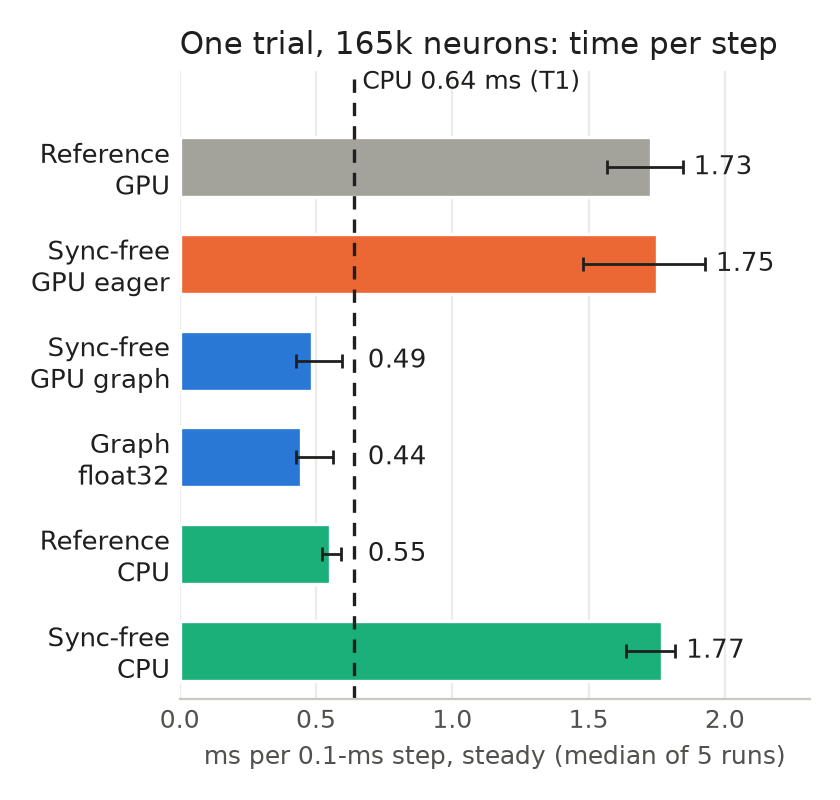
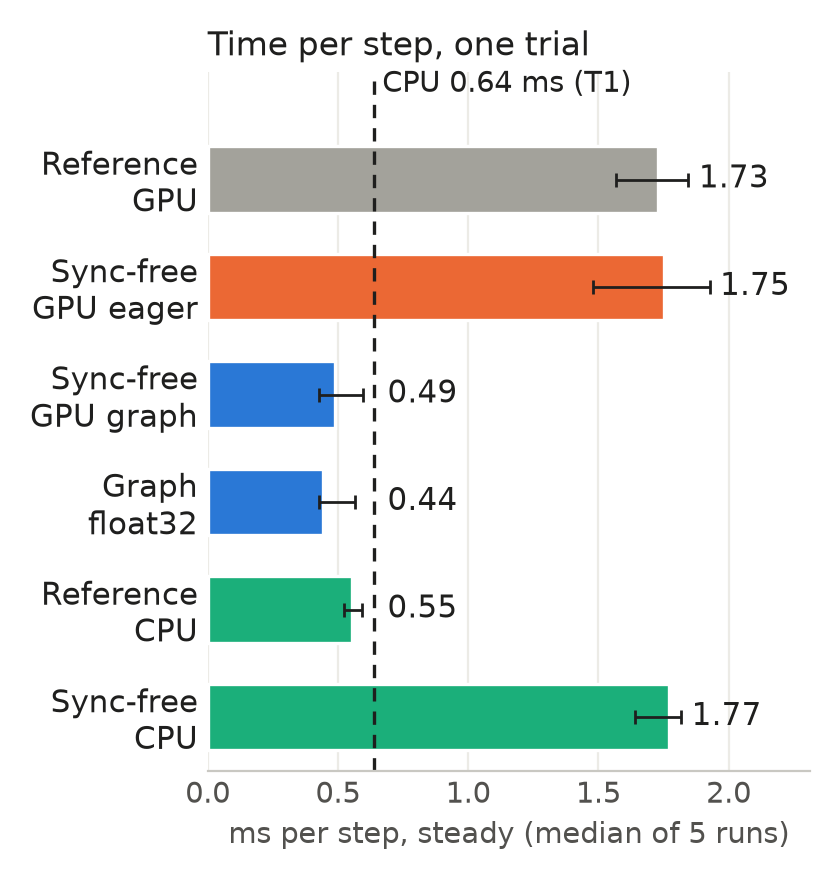
T5b chart: larger text for a 390 px screen

Changed region(s): [[0.031, 0.0312, 0.9595, 0.9688], [0.0929, 0.5312, 0.2786, 0.625], [0.031, 0.6562, 0.2786, 0.75]]

diff --git a/bench/w4_graph_plot.py b/bench/w4_graph_plot.py
@@ -2,8 +2,8 @@
 """Bar chart of ms per step by row (reference / fast eager / fast graph, GPU and
 CPU) from a w4_graph.py JSON, plus the HTML table that the site embeds verbatim.
 
-Sized for a 390 px phone: 4.2 in wide at 200 dpi (840 px), 9-10 pt text, so
-text renders at >= 10 px when the image is scaled to ~360 px.
+Sized for a 390 px phone: 4.2 in wide at 200 dpi (840 px), 10.5-12 pt text, so
+text renders at >= 10 px when the image is scaled to ~300 px.
 Needs only matplotlib (run from a venv that has it):
   python bench/w4_graph_plot.py perf/results/w4/<tag>_graph.json
 Output: <tag>_graph_bars.png and <tag>_graph_table.html next to the JSON.
@@ -46,7 +46,7 @@ def main():
     med = [A[k]['steady_mean_ms']['median'] for k in names]
     lo = [m - A[k]['steady_mean_ms']['min'] for k, m in zip(names, med)]
     hi = [A[k]['steady_mean_ms']['max'] - m for k, m in zip(names, med)]
-    fig, ax = plt.subplots(figsize=(4.2, 4.0), dpi=200)
+    fig, ax = plt.subplots(figsize=(4.2, 4.4), dpi=200)
     y = list(range(len(names)))
     ax.barh(y, med, height=0.62, color=[color[k] for k in names], edgecolor='white', linewidth=1.2)
     ax.errorbar(med, y, xerr=[lo, hi], fmt='none', ecolor=INK, elinewidth=1.0, capsize=2.5)
@@ -54,22 +54,22 @@ def main():
         x = m + h + 0.04
         if x < CPU_MS + 0.04 < x + 0.25:     # keep the label clear of the CPU line
             x = CPU_MS + 0.05
-        ax.text(x, yy, f'{m:.2f}', ha='left', va='center', fontsize=9.5, color=INK)
+        ax.text(x, yy, f'{m:.2f}', ha='left', va='center', fontsize=11, color=INK)
     ax.axvline(CPU_MS, color=INK, linewidth=1.2, linestyle=(0, (4, 3)))
-    ax.text(CPU_MS + 0.03, -0.75, f'CPU {CPU_MS:.2f} ms (T1)', ha='left', va='bottom', fontsize=9, color=INK)
-    ax.set_yticks(y, [PLOT_LABEL[k] for k in names], fontsize=9.5, color=INK)
+    ax.text(CPU_MS + 0.03, -0.75, f'CPU {CPU_MS:.2f} ms (T1)', ha='left', va='bottom', fontsize=10.5, color=INK)
+    ax.set_yticks(y, [PLOT_LABEL[k] for k in names], fontsize=11, color=INK)
     ax.invert_yaxis()
     xmax = max(m + h for m, h in zip(med, hi))
     ax.set_xlim(0, xmax * 1.2)
     ax.set_ylim(len(names) - 0.5, -1.0)
-    ax.set_xlabel(f'ms per 0.1-ms step, steady (median of {n} runs)', fontsize=9, color=MUTED)
-    ax.tick_params(axis='x', labelsize=9, colors=MUTED, length=0)
+    ax.set_xlabel(f'ms per step, steady (median of {n} runs)', fontsize=10.5, color=MUTED)
+    ax.tick_params(axis='x', labelsize=10.5, colors=MUTED, length=0)
     ax.tick_params(axis='y', length=0)
     for s in ('top', 'right', 'left'):
         ax.spines[s].set_visible(False)
     ax.spines['bottom'].set_color('#c9c8c2')
     ax.xaxis.grid(True, color=GRID); ax.set_axisbelow(True)
-    ax.set_title('One trial, 165k neurons: time per step', loc='left', fontsize=11, color=INK)
+    ax.set_title('Time per step, one trial', loc='left', fontsize=12, color=INK)
     fig.tight_layout()
     png = src.with_name(src.stem + '_bars.png')
     fig.savefig(png, facecolor='white')
